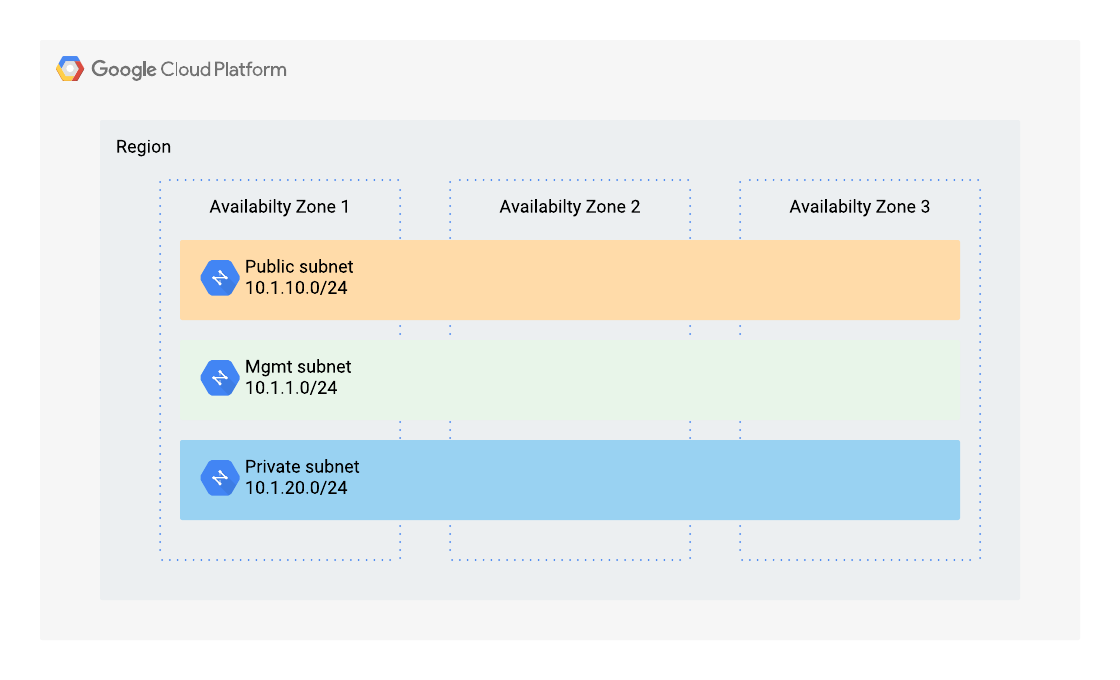
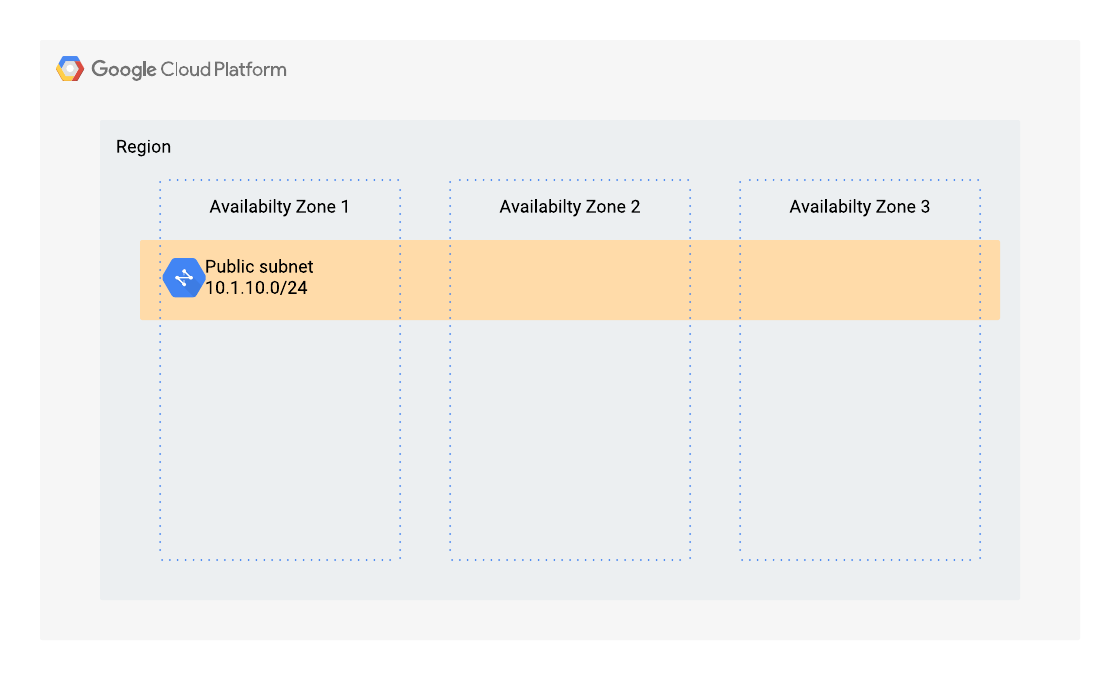
Update for min/max GCP networking  - min network is a single regional VPC  - max network is three regional VPCs and a NAT on    'mgmt' VPC for egress to internet

diff --git a/modules/google/terraform/network/max/README.md b/modules/google/terraform/network/max/README.md
@@ -1,16 +1,19 @@
-# GCP minimal network
+# GCP maximum network
 
-This module will create a single VPC network in a single GCE [Region] for single-leg
-deployments. A NAT is not included in this module, so instances are required to
-have a public IP address to access the internet.
+This module will create three VPC networks in a single GCE [Region] that isolates
+public facing, private internal/services, and management traffic for a three-leg
+deployment.
 
-![gcp-min.png](gcp-min.png)
+A NAT is included on `mgmt` network to allow BIG-IP and other resources to access
+internet.
+
+![gcp-max.png](gcp-max.png)
 
 To use this module within a solutions context:
 
 ```hcl
 module "network_min" {
-    source = "../../../../../google/terraform/network/min/"
+    source = "../../../../../google/terraform/network/max/"
     gcpProjectId = var.gcpProjectId
     gcpRegion = var.gcpRegion
     projectPrefix = var.projectPrefix

diff --git a/modules/aws/terraform/gwlb-bigip-vpc/README.md b/modules/aws/terraform/gwlb-bigip-vpc/README.md
@@ -32,7 +32,8 @@ No requirements.
 | Name | Version |
 |------|---------|
 | aws | n/a |
-| template | n/a |
+| null | n/a |
+| random | n/a |
 
 ## Inputs
 
@@ -57,9 +58,8 @@ No requirements.
 
 | Name | Description |
 |------|-------------|
-| geneveProxyAz1Ip | n/a |
-| geneveProxyAz2Ip | n/a |
-| gwlbEndpointService | n/a |
+| bigipAz1Ip | n/a |
+| gwlbEndpointService | output "bigipAz2Ip" { value = aws\_instance.GeneveProxyAz2.public\_ip } |
 | subnetsAz1 | n/a |
 | subnetsAz2 | n/a |
 | vpcs | n/a |
